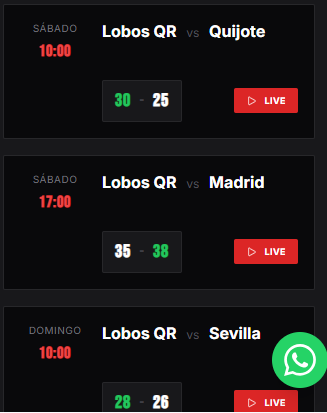
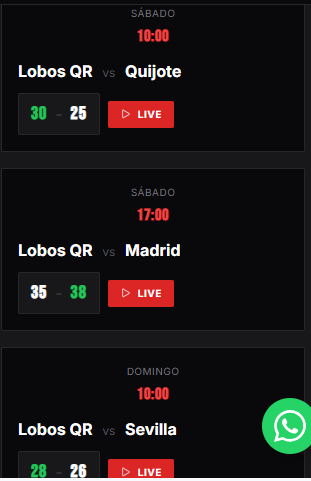
Layout mobile centralizado competicoes: horario, confronto e placar organizados

diff --git a/frontend/src/pages/Competitions.jsx b/frontend/src/pages/Competitions.jsx
@@ -21,7 +21,7 @@ export default function Competitions() {
         const jornadasActivas = data.filter(jornada => jornada.isActive === true);
         setJornadas(jornadasActivas);
       } catch (error) { 
-        console.error("❌ Error al cargar jornadas:", error); 
+        console.error(" Error al cargar jornadas:", error); 
       } finally { 
         setLoading(false); 
       }
@@ -77,24 +77,71 @@ export default function Competitions() {
                   {j.partidos.map((p, idx) => (
                     <div key={idx} className="bg-zinc-950 border border-zinc-800 rounded-sm">
                       <div className="p-4 md:p-5">
-                        {/* Layout FLEXÍVEL: Horizontal no PC, Vertical no Mobile */}
-                        <div className="flex flex-col md:flex-row md:items-center gap-3 md:gap-4">
-                          
-                          {/* COLUNA 1: Horário */}
-                          <div className="text-center md:text-left min-w-[70px] md:min-w-[80px] shrink-0">
+                        
+                        {/* MOBILE LAYOUT - Centralizado */}
+                        <div className="md:hidden space-y-3">
+                          {/* Horário */}
+                          <div className="text-center">
                             <p className="text-zinc-500 text-[10px] uppercase tracking-wider mb-1">{p.diaSemana}</p>
-                            <p className="text-red-500 text-base md:text-lg font-display font-bold">{p.horario || 'TBD'}</p>
+                            <p className="text-red-500 text-lg font-display font-bold">{p.horario || 'TBD'}</p>
                           </div>
 
-                          {/* COLUNA 2: Confronto */}
-                          <div className="flex-grow min-w-0">
-                            <h3 className="text-base md:text-xl font-bold text-white leading-tight">
-                              Lobos QR <span className="text-zinc-600 mx-1.5 text-xs md:text-sm font-normal">vs</span> {p.rival}
+                          {/* Confronto Centralizado */}
+                          <div className="text-center">
+                            <h3 className="text-lg font-bold text-white">
+                              Lobos QR <span className="text-zinc-600 mx-2 text-sm">vs</span> {p.rival}
                             </h3>
                           </div>
 
-                          {/* COLUNA 3: Status/Placar + Live */}
-                          <div className="flex items-center gap-2 md:gap-3 shrink-0">
+                          {/* Placar ou Status + Live */}
+                          {p.status === 'FINALIZADO' ? (
+                            <div className="flex items-center justify-center gap-6 pt-2">
+                              <div className="text-center">
+                                <p className="text-xs text-zinc-500 mb-1">Lobos</p>
+                                <p className={`font-display text-2xl font-bold ${p.lobosScore > p.rivalScore ? 'text-green-500' : 'text-white'}`}>{p.lobosScore}</p>
+                              </div>
+                              <span className="text-zinc-700 text-xl">-</span>
+                              <div className="text-center">
+                                <p className="text-xs text-zinc-500 mb-1">Rival</p>
+                                <p className={`font-display text-2xl font-bold ${p.rivalScore > p.lobosScore ? 'text-green-500' : 'text-white'}`}>{p.rivalScore}</p>
+                              </div>
+                            </div>
+                          ) : (
+                            <div className="flex items-center justify-center gap-3 pt-2">
+                              <span className={`px-3 py-1.5 border text-[10px] font-bold uppercase tracking-wider rounded-sm ${
+                                p.status === 'CANCELADO' ? 'bg-red-500/10 text-red-500 border-red-500/20' : 'bg-blue-500/10 text-blue-500 border-blue-500/20'
+                              }`}>
+                                {p.status}
+                              </span>
+                              {p.youtubeLink && (
+                                <a 
+                                  href={p.youtubeLink} 
+                                  target="_blank" 
+                                  rel="noopener noreferrer"
+                                  className="flex items-center gap-1.5 px-3 py-1.5 bg-red-600 text-white text-[10px] font-bold uppercase tracking-wider rounded-sm hover:bg-red-700 transition-colors"
+                                >
+                                  <Icon path="M5.25 5.653c0-.856.917-1.398 1.667-.986l11.54 6.348a1.125 1.125 0 010 1.971l-11.54 6.347a1.125 1.125 0 01-1.667-.985V5.653z" className="w-3 h-3" />
+                                  Live
+                                </a>
+                              )}
+                            </div>
+                          )}
+                        </div>
+
+                        {/* DESKTOP LAYOUT - Horizontal (NÃO MEXER) */}
+                        <div className="hidden md:flex md:items-center gap-4">
+                          <div className="text-center md:text-left min-w-[80px] shrink-0">
+                            <p className="text-zinc-500 text-[10px] uppercase tracking-wider mb-1">{p.diaSemana}</p>
+                            <p className="text-red-500 text-lg font-display font-bold">{p.horario || 'TBD'}</p>
+                          </div>
+
+                          <div className="flex-grow min-w-0">
+                            <h3 className="text-xl font-bold text-white leading-tight">
+                              Lobos QR <span className="text-zinc-600 mx-1.5 text-sm font-normal">vs</span> {p.rival}
+                            </h3>
+                          </div>
+
+                          <div className="flex items-center gap-3 shrink-0">
                             {p.status === 'FINALIZADO' ? (
                               <div className="flex items-center gap-2 bg-zinc-900 px-3 py-1.5 rounded-sm border border-zinc-800">
                                 <span className={`font-display text-lg font-bold ${p.lobosScore > p.rivalScore ? 'text-green-500' : 'text-white'}`}>{p.lobosScore}</span>
@@ -102,7 +149,7 @@ export default function Competitions() {
                                 <span className={`font-display text-lg font-bold ${p.rivalScore > p.lobosScore ? 'text-green-500' : 'text-white'}`}>{p.rivalScore}</span>
                               </div>
                             ) : (
-                              <span className={`px-3 py-1.5 border text-[10px] md:text-xs font-bold uppercase tracking-wider rounded-sm whitespace-nowrap ${
+                              <span className={`px-3 py-1.5 border text-xs font-bold uppercase tracking-wider rounded-sm whitespace-nowrap ${
                                 p.status === 'CANCELADO' ? 'bg-red-500/10 text-red-500 border-red-500/20' : 'bg-blue-500/10 text-blue-500 border-blue-500/20'
                               }`}>
                                 {p.status}
@@ -114,15 +161,15 @@ export default function Competitions() {
                                 href={p.youtubeLink} 
                                 target="_blank" 
                                 rel="noopener noreferrer"
-                                className="flex items-center gap-1.5 px-3 py-1.5 bg-red-600 text-white text-[10px] md:text-xs font-bold uppercase tracking-wider rounded-sm hover:bg-red-700 transition-colors"
+                                className="flex items-center gap-1.5 px-3 py-1.5 bg-red-600 text-white text-xs font-bold uppercase tracking-wider rounded-sm hover:bg-red-700 transition-colors"
                               >
-                                <Icon path="M5.25 5.653c0-.856.917-1.398 1.667-.986l11.54 6.348a1.125 1.125 0 010 1.971l-11.54 6.347a1.125 1.125 0 01-1.667-.985V5.653z" className="w-3 h-3" />
-                                <span className="hidden lg:inline">Ver en vivo</span>
-                                <span className="lg:hidden">Live</span>
+                                <Icon path="M5.25 5.653c0-.856.917-1.398 1.667-.986l11.54 6.348a1.125 1.125 0 010 1.971l-11.54 6.347a1.125 1.125 0 01-1.667-.985V5.653z" className="w-4 h-4" />
+                                Ver en vivo
                               </a>
                             )}
                           </div>
                         </div>
+
                       </div>
                     </div>
                   ))}
